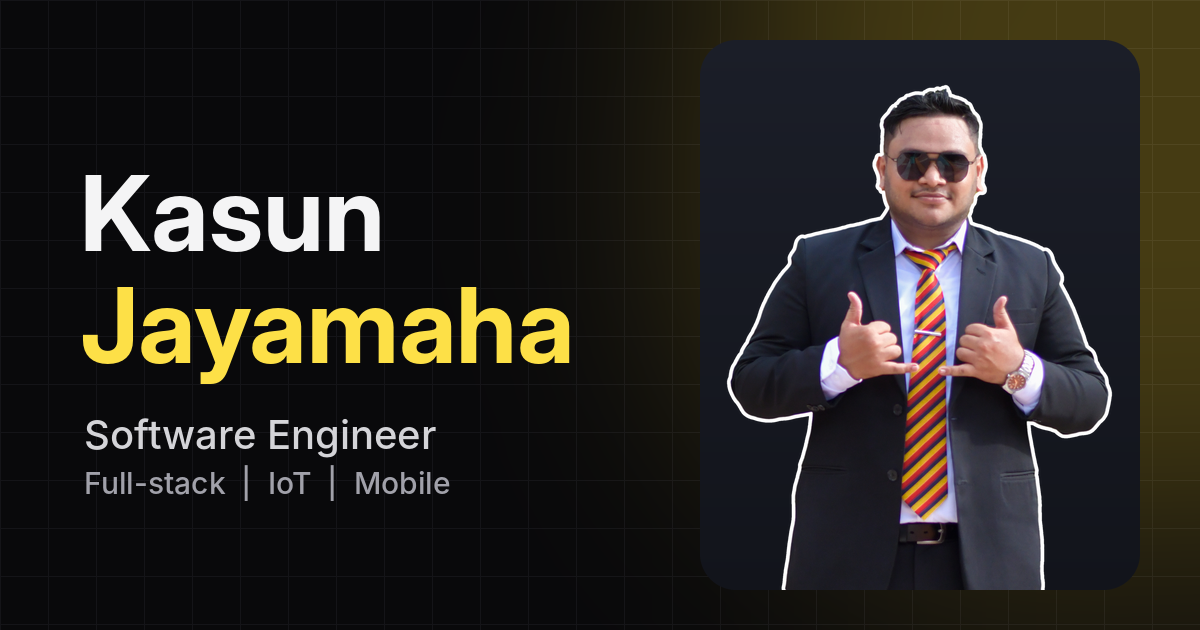
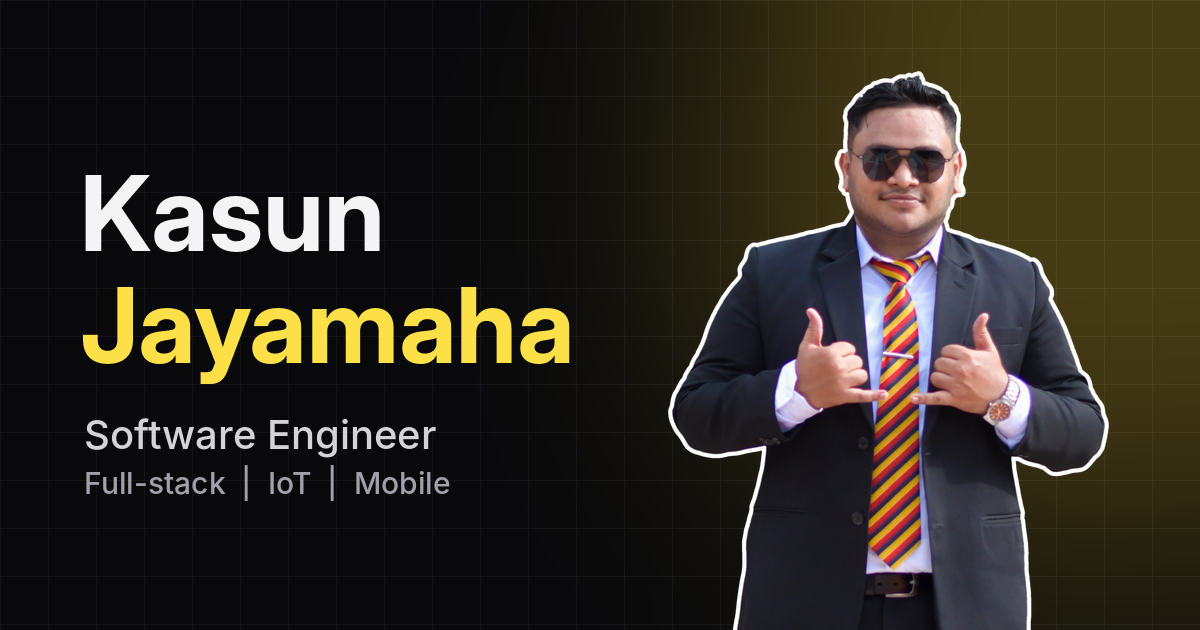
Remove the portrait panel; portrait sits directly on the page with a faded lower edge
Claude-Session: https://claude.ai/code/session_01NqvYvTQdDHguLzFncsTnJ2

Changed region(s): [[0.555, 0.0603, 0.9558, 1.0]]

diff --git a/app/Components/Hero.tsx b/app/Components/Hero.tsx
@@ -16,20 +16,24 @@ const social = [
 function Portrait() {
   return (
     <div
-      className="rise relative mx-auto aspect-[4/5] w-full max-w-[340px] overflow-hidden rounded-[2rem] bg-gradient-to-b from-[#1b1e28] to-[#12141b] ring-1 ring-line lg:mx-0 lg:ml-auto lg:h-[var(--h)] lg:w-[calc(var(--h)*4/5)] lg:max-w-none"
-      // The panel is sized from the viewport height so it always fits on screen.
+      className="rise relative mx-auto aspect-[4/5] w-full max-w-[340px] lg:mx-0 lg:ml-auto lg:h-[var(--h)] lg:w-[calc(var(--h)*4/5)] lg:max-w-none"
+      // The box is sized from the viewport height so the portrait always fits on screen.
       style={{ ...delay(0.2), "--h": "min(70svh, 640px)" } as CSSProperties}
     >
-      {/* Half-body cutout with its white outline baked in; the cut edge sits on the panel's bottom edge. */}
-      <img
-        src="./img/kasun.webp"
-        alt="Portrait of Kasun Jayamaha in a suit and tie"
-        width={994}
-        height={1300}
-        fetchPriority="high"
-        decoding="async"
-        className="absolute bottom-0 left-1/2 h-[92%] w-auto max-w-none -translate-x-1/2"
-      />
+      {/* The soft shadow (light mode only) lives on this wrapper so it follows the
+          faded silhouette. On the image itself the mask would clip it to a box. */}
+      <div className="absolute inset-0 drop-shadow-[0_6px_16px_rgba(16,18,24,0.28)] dark:drop-shadow-none">
+        {/* Half-body cutout with its white outline baked in; the lower edge fades into the page. */}
+        <img
+          src="./img/kasun.webp"
+          alt="Portrait of Kasun Jayamaha in a suit and tie"
+          width={994}
+          height={1300}
+          fetchPriority="high"
+          decoding="async"
+          className="absolute bottom-0 left-1/2 h-full w-auto max-w-none -translate-x-1/2 [-webkit-mask-image:linear-gradient(to_bottom,#000_80%,transparent)] [mask-image:linear-gradient(to_bottom,#000_80%,transparent)]"
+        />
+      </div>
     </div>
   );
 }
